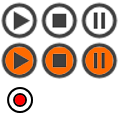
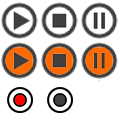
再生場所 分:秒表示追加

Changed region(s): [[0.375, 0.725, 0.625, 0.95], [0.8, 0.65, 0.85, 0.675]]

diff --git a/Room.cpp b/Room.cpp
@@ -22,7 +22,7 @@ typedef struct Music_s {
 
 // グローバル変数
 Music_data music[MAX_LOAD_MUSIC];
-int G_main, G_frame, G_button[7];
+int G_main, G_frame, G_button[9];
 int NowMusicNum = 0;
 int ChangeImage_frame = 0;
 int FirstTime, NowTime;
@@ -32,8 +32,8 @@ bool ChangeImage_flag = false;
 int ChangeImage_for = 0;
 int FrameNum = 0;
 int Music_Position = 0;
-float Music_TotalTime = 0;
-float Music_NowTime = 0;
+float Music_TotalTime = -1;
+float Music_NowTime = -1;
 
 // 初期化
 void Room_Init()
@@ -86,7 +86,8 @@ void Room_Init()
 	FileRead_close(FP_music_list);
 	G_main = LoadGraph("data\\graph\\system\\main.png");
 	G_frame = LoadGraph("data\\graph\\system\\frame.png");
-	LoadDivGraph("data\\graph\\system\\button.png", 7, 3, 3, 40, 40, G_button);
+	LoadDivGraph("data\\graph\\system\\button.png", 9, 3, 3, 40, 40, G_button);
+	G_button[8] = LoadGraph("data\\graph\\system\\time.png");
 	FirstTime = GetNowCount();
 }
 
@@ -182,6 +183,7 @@ void Room_Draw()
 	if (CheckMouseIn(15, 268, 55, 308) == true) { PlayMusic_Draw(1); }
 	else if (CheckMouseIn(60, 268, 100, 308) == true) { PlayMusic_Draw(2); }
 	else if (CheckMouseIn(585, 268, 625, 308) == true) { PlayMusic_Draw(3); }
+	else if (CheckMouseIn(95 + 459 * (Music_NowTime / Music_TotalTime), 268, 95 + 459 * (Music_NowTime / Music_TotalTime) + 40, 308) == true) { PlayMusic_Draw(4); }
 	else { PlayMusic_Draw(0); }
 	DrawFormatString(300, 300, GetColor(255, 255, 255), "%s", music[NowMusicNum].name);
 }
@@ -284,7 +286,7 @@ void PlayMusic_Update(int flag)
 }
 
 // 音楽再生（描画）
-// 0:どこもinしていない	1:再生にin	2:一時停止にin	3:停止にin
+// 0:どこもinしていない	1:再生にin	2:一時停止にin	3:停止にin	4:再生場所ボタン追加
 void PlayMusic_Draw(int flag)
 {
 	// 再生バー
@@ -296,6 +298,10 @@ void PlayMusic_Draw(int flag)
 		DrawRoundRect(112, 281, 112 + 459 * (Music_NowTime / Music_TotalTime), 297, 3, 3, GetColor(32, 110, 32), TRUE);
 		DrawGraph(95 + 459 * (Music_NowTime / Music_TotalTime), 268, G_button[6], TRUE);
 	}
+	else
+	{
+		DrawGraph(95, 268, G_button[7], TRUE);
+	}
 	// コントロールボタン
 	if (flag != 1) { DrawGraph(15, 268, G_button[0], TRUE); }
 	if (flag != 2) { DrawGraph(60, 268, G_button[2], TRUE); }
@@ -303,4 +309,11 @@ void PlayMusic_Draw(int flag)
 	if (flag == 1) { DrawGraph(15, 268, G_button[3], TRUE); }
 	if (flag == 2) { DrawGraph(60, 268, G_button[5], TRUE); }
 	if (flag == 3) { DrawGraph(585, 268, G_button[4], TRUE); }
+	if (flag == 4)
+	{
+		int minute = Music_NowTime / 1000 / 60;
+		int second = Music_NowTime / 1000 - minute * 60;
+		DrawGraph(75 + 459 * (Music_NowTime / Music_TotalTime), 300, G_button[8], TRUE);
+		DrawFormatString(95 + 459 * (Music_NowTime / Music_TotalTime), 318, GetColor(0, 0, 0), "%02d:%02d", minute, second);
+	}
 }
